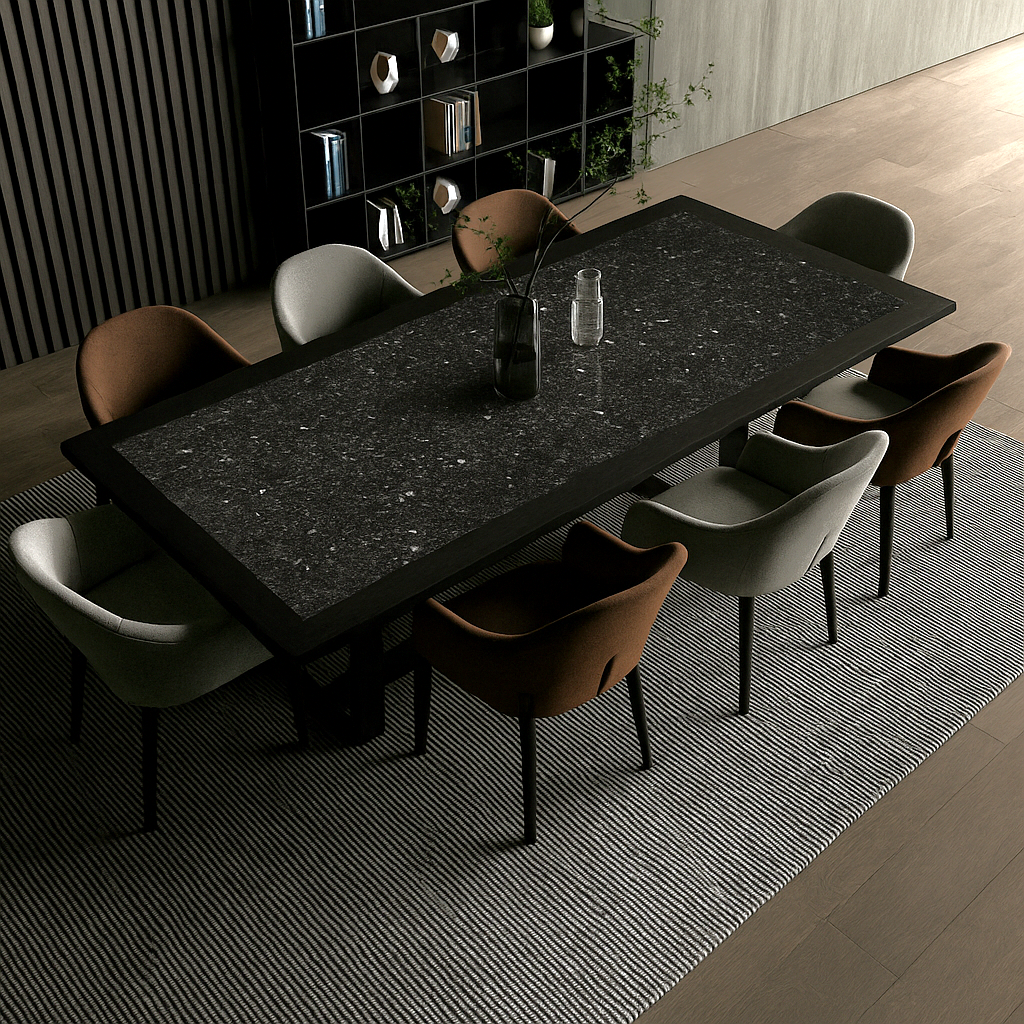
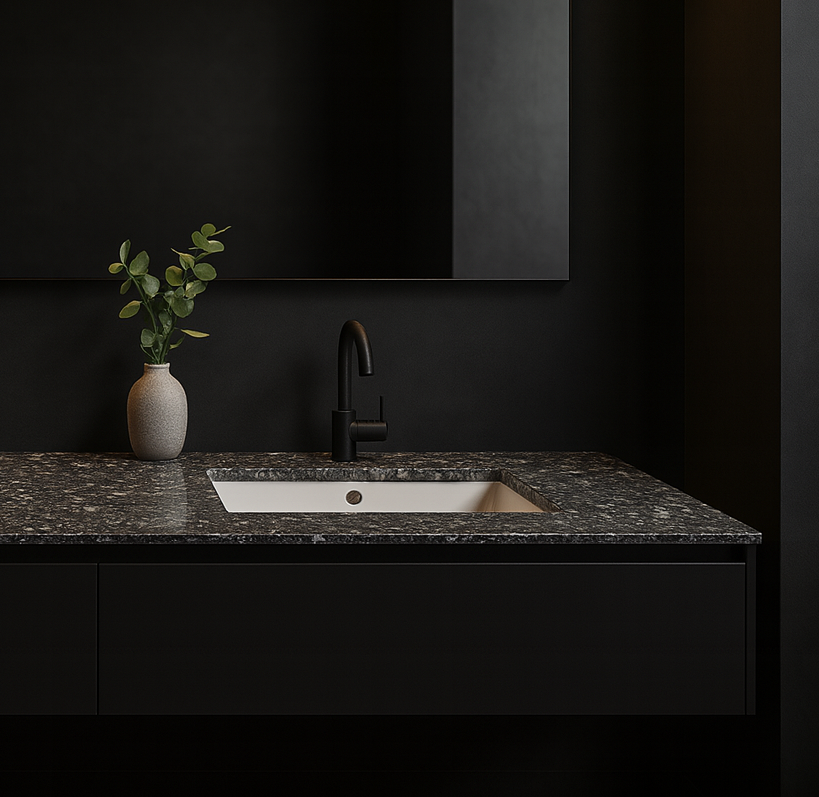
유니버스 제품이미지 추가

diff --git a/E-universe/index.html b/E-universe/index.html
@@ -71,6 +71,9 @@ height="0" width="0" style="display:none;visibility:hidden"></iframe></noscript>
                 <img src="../img/p/universe-1.png" alt="유니버스 적용 예시 1" />
                 <img src="../img/p/universe-2.png" alt="유니버스 적용 예시 2" />
                 <img src="../img/p/universe-3.png" alt="유니버스 적용 예시 3" />
+                <img src="../img/p/universe-4.png" alt="유니버스 적용 예시 4" />
+                <img src="../img/p/universe-5.png" alt="유니버스 적용 예시 5" />
+                <img src="../img/p/universe-6.png" alt="유니버스 적용 예시 6" />
             </div>
             
 
